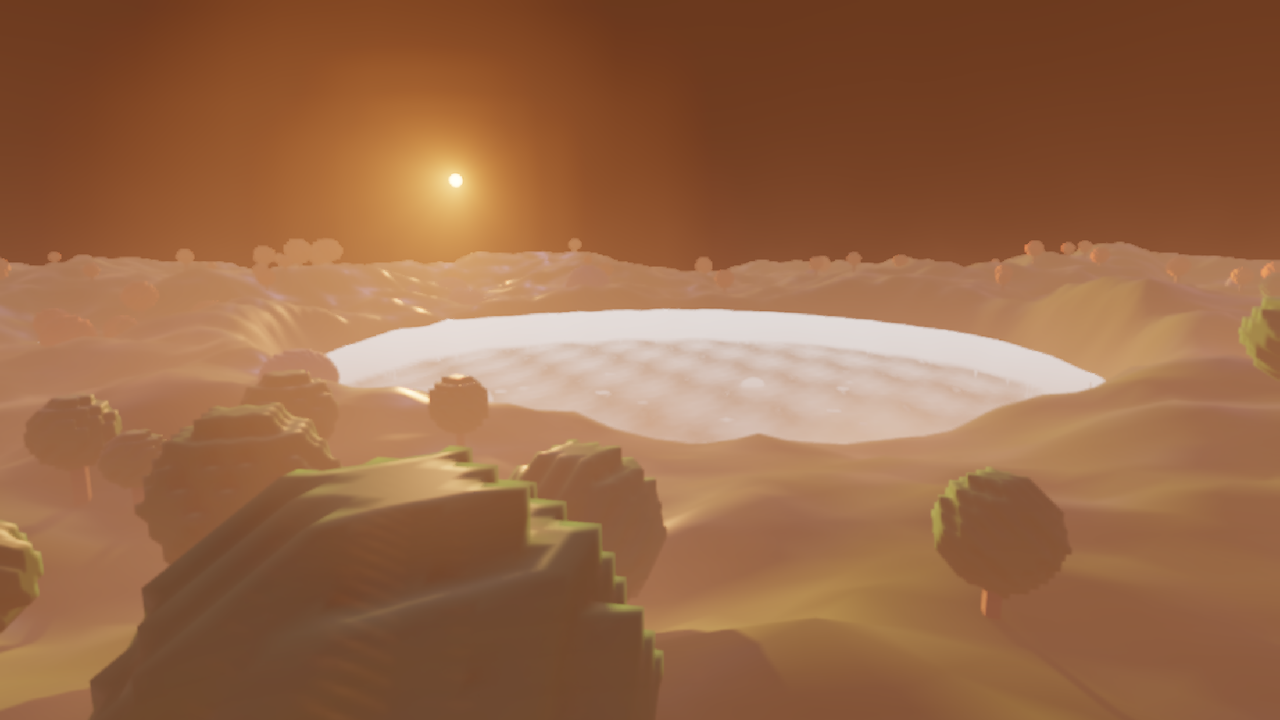
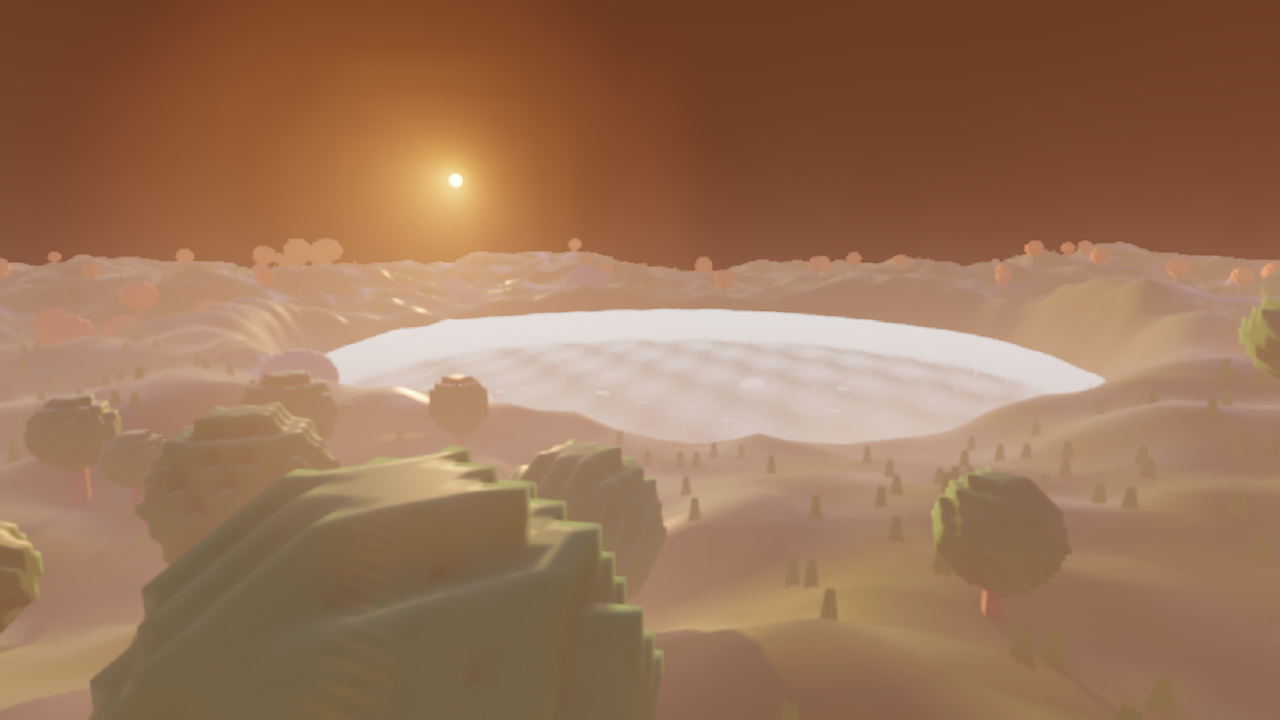
Sunrise scene: add instanced grass (6000 crossed-quad blades in one draw call, snapped to the terrain via new Instancing::heightFn; instanced-node AABB in Node::computeAabb so grass is not frustum-culled) and brighten the sunrise sky (brighter cubemap palette + skyTop/Bottom, exposure 1.3, IBL 0.7);

diff --git a/examples/sunrise_screenshot/main.cpp b/examples/sunrise_screenshot/main.cpp
@@ -79,10 +79,10 @@ fuhgl::Texture makeSunriseSky(int size, unsigned seed, const fuhgl::math::Vec3& 
         fuhgl::Texture::CubeFace::PosX, fuhgl::Texture::CubeFace::NegX, fuhgl::Texture::CubeFace::PosY,
         fuhgl::Texture::CubeFace::NegY, fuhgl::Texture::CubeFace::PosZ, fuhgl::Texture::CubeFace::NegZ,
     };
-    const fuhgl::math::Vec3 zenith{0.045f, 0.085f, 0.27f};
-    const fuhgl::math::Vec3 horizonAway{0.42f, 0.22f, 0.36f}; // violet-pink away from the sun
-    const fuhgl::math::Vec3 horizonSun{1.0f, 0.40f, 0.10f};   // hot orange at the sun
-    const fuhgl::math::Vec3 ground{0.07f, 0.045f, 0.075f};
+    const fuhgl::math::Vec3 zenith{0.10f, 0.18f, 0.45f};
+    const fuhgl::math::Vec3 horizonAway{0.62f, 0.38f, 0.55f}; // violet-pink away from the sun
+    const fuhgl::math::Vec3 horizonSun{1.0f, 0.55f, 0.22f};   // hot orange at the sun
+    const fuhgl::math::Vec3 ground{0.15f, 0.10f, 0.14f};
     std::vector<unsigned char> px(static_cast<std::size_t>(size) * size * 4);
     for (int face = 0; face < 6; ++face) {
         for (int j = 0; j < size; ++j) {
@@ -96,10 +96,10 @@ fuhgl::Texture makeSunriseSky(int size, unsigned seed, const fuhgl::math::Vec3& 
                 // cirrus streaks, pinker near the sun
                 const float n = fuhgl::math::fbm3(dir.x * 4.f + 3.1f, dir.y * 9.f, dir.z * 4.f, 4, seed);
                 const float cl = smoothstep01(0.52f, 0.78f, n) * smoothstep01(-0.02f, 0.22f, dir.y);
-                col += fuhgl::math::Vec3{1.0f, 0.45f, 0.32f} * (cl * (0.35f + 0.65f * sunAmt));
+                col += fuhgl::math::Vec3{1.0f, 0.55f, 0.40f} * (cl * (0.5f + 0.5f * sunAmt));
                 // sun glow
-                col += fuhgl::math::Vec3{1.0f, 0.55f, 0.22f} * std::pow(std::max(fuhgl::math::dot(dir, sunDir), 0.f), 300.f) * 8.f;
-                col += fuhgl::math::Vec3{1.0f, 0.5f, 0.25f} * std::pow(std::max(fuhgl::math::dot(dir, sunDir), 0.f), 24.f) * 0.7f;
+                col += fuhgl::math::Vec3{1.0f, 0.55f, 0.22f} * std::pow(std::max(fuhgl::math::dot(dir, sunDir), 0.f), 300.f) * 10.f;
+                col += fuhgl::math::Vec3{1.0f, 0.5f, 0.25f} * std::pow(std::max(fuhgl::math::dot(dir, sunDir), 0.f), 24.f) * 1.0f;
                 unsigned char* p = px.data() + (static_cast<std::size_t>(j) * size + i) * 4;
                 p[0] = static_cast<unsigned char>(std::min(255.f, col.x * 255.f));
                 p[1] = static_cast<unsigned char>(std::min(255.f, col.y * 255.f));
@@ -140,6 +140,28 @@ void aimAt(fuhgl::FirstPersonCamera& cam, const fuhgl::math::Vec3& target) {
     const fuhgl::math::Vec3 d = fuhgl::math::normalize(target - cam.position);
     cam.yaw = std::atan2(d.x, -d.z);
     cam.pitch = std::asin(d.y);
+}
+
+// Crossed-quad grass blade, base at y=0, tapered top. Both windings per plane so
+// backface culling never hides a blade (16 verts / 24 indices).
+fuhgl::render::MeshData makeGrassBlade(const fuhgl::math::Vec3& color) {
+    fuhgl::render::MeshData d;
+    const float w = 0.30f, wt = 0.14f, h = 0.85f;
+    for (int p = 0; p < 2; ++p) { // two crossed vertical planes: XY and ZY
+        const float ax = p == 0 ? 1.f : 0.f, az = p == 0 ? 0.f : 1.f;
+        const float nx = -az, nz = ax; // in-plane normal
+        const unsigned base = static_cast<unsigned>(d.vertexCount());
+        const float verts[4 * fuhgl::render::MeshData::kFloatsPerVertex] = {
+            -w * ax, 0.f, -w * az, nx, 0.f, nz, color.x, color.y, color.z, 0.f, 0.f,
+             w * ax, 0.f,  w * az, nx, 0.f, nz, color.x, color.y, color.z, 1.f, 0.f,
+             wt * ax, h,   wt * az, nx, 0.f, nz, color.x, color.y, color.z, 1.f, 1.f,
+            -wt * ax, h,  -wt * az, nx, 0.f, nz, color.x, color.y, color.z, 0.f, 1.f,
+        };
+        d.vertices.insert(d.vertices.end(), verts, verts + 4 * fuhgl::render::MeshData::kFloatsPerVertex);
+        d.indices.insert(d.indices.end(), {base, base + 1, base + 2, base, base + 2, base + 3});
+        d.indices.insert(d.indices.end(), {base, base + 2, base + 1, base, base + 3, base + 2}); // flipped
+    }
+    return d;
 }
 
 } // namespace
@@ -326,6 +348,29 @@ int main(int argc, char** argv) {
     std::fprintf(stderr, "sunrise_screenshot: %d trees, %d rocks, %d reeds, %d pads\n", trees, rocksN,
                  reeds, pads);
 
+    // --- grass via instancing (G9 F24): 6000 blades in ONE draw call, snapped to the
+    // terrain height via Instancing::heightFn (hidden in the lake / at the shore) ---
+    fuhgl::render::Mesh grass;
+    if (!grass.create()) return 1;
+    grass.setMeshData(makeGrassBlade({1.f, 1.f, 1.f}));
+    scene::Node& grassNode = scene.root().createChild("grass");
+    grassNode.instancing.enabled = true;
+    grassNode.instancing.count = 6000;
+    grassNode.instancing.layout = scene::InstanceLayout::Random;
+    grassNode.instancing.extent = {300.f, 1.f, 300.f};
+    grassNode.instancing.seed = 99u;
+    grassNode.instancing.heightFn = [&](float x, float z) {
+        const float h = tc.heightAt(x, z);
+        if (h < waterLevel + 0.35f || std::hypot(x - basin.x, z - basin.y) < basinR + 3.f)
+            return -100.f; // no grass in the lake / right at the shore
+        return h - 0.05f;
+    };
+    scene::MeshEntry& gr = grassNode.attach<scene::MeshComponent>().addMesh(&grass);
+    gr.albedo = {0.16f, 0.40f, 0.11f};
+    gr.roughness = 1.f;
+    gr.castShadow = false;
+    gr.materialId = 1024;
+
     // --- dock into the lake + waving flag (G6) ---
     // dockDir points from the shore (-16,-2) toward the basin center; the dock starts at
     // the shore-side rim and extends INTO the lake (along dockDir)
@@ -463,7 +508,7 @@ int main(int argc, char** argv) {
     fuhgl::render::Environment env;
     if (skyCube.id() != 0 && !env.createFromCubemap(skyCube, 16, 32, 64))
         std::fprintf(stderr, "sunrise_screenshot: IBL bake failed, continuing without env\n");
-    env.intensity = 0.5f;
+    env.intensity = 0.7f;
 
     // --- root effects: everything visual at once ---
     scene::Effects& fx = scene.root().effects;
@@ -481,7 +526,7 @@ int main(int argc, char** argv) {
     fx.enable(render::Effect::Particles);
     fx.enable(render::Effect::Decals);
     scene::EffectParams& prm = fx.params;
-    prm.exposure = 1.15f;
+    prm.exposure = 1.3f;
     prm.taaBlend = 0.08f;
     prm.shadowCenter = {0.f, 8.f, -20.f};
     prm.shadowRadius = 150.f;
@@ -512,8 +557,8 @@ int main(int argc, char** argv) {
     render::DeferredRenderer renderer;
     if (!renderer.create(args.width, args.height, 0)) return 1;
     if (skyCube.id() != 0) renderer.setSkyCubemap(&skyCube);
-    renderer.skyTop = {0.05f, 0.09f, 0.27f};
-    renderer.skyBottom = {1.0f, 0.45f, 0.15f};
+    renderer.skyTop = {0.10f, 0.18f, 0.45f};
+    renderer.skyBottom = {1.0f, 0.60f, 0.30f};
     renderer.enableCsmShadows(1024, 4);
     renderer.setWaterReflectionScale(0.5f);
     renderer.godRays.enabled = true;

diff --git a/src/scene/node.cpp b/src/scene/node.cpp
@@ -21,15 +21,19 @@ std::vector<fuhgl::math::Mat4> Instancing::makeLocalInstances() const {
                                      : 0.f;
             const float z = rows > 1 ? -extent.z * 0.5f + static_cast<float>(iz) * extent.z / static_cast<float>(rows - 1)
                                      : 0.f;
-            out.push_back(fuhgl::math::translate({x, 0.f, z}));
+            const float y = heightFn ? heightFn(x, z) : 0.f;
+            out.push_back(fuhgl::math::translate({x, y, z}));
         }
     } else {
         std::mt19937 rng(seed);
         std::uniform_real_distribution<float> dx(-extent.x * 0.5f, extent.x * 0.5f);
         std::uniform_real_distribution<float> dy(-extent.y * 0.5f, extent.y * 0.5f);
         std::uniform_real_distribution<float> dz(-extent.z * 0.5f, extent.z * 0.5f);
-        for (int i = 0; i < n; ++i)
-            out.push_back(fuhgl::math::translate({dx(rng), dy(rng), dz(rng)}));
+        for (int i = 0; i < n; ++i) {
+            const float x = dx(rng), z = dz(rng);
+            const float y = heightFn ? heightFn(x, z) : dy(rng);
+            out.push_back(fuhgl::math::translate({x, y, z}));
+        }
     }
     return out;
 }
@@ -114,6 +118,19 @@ void Node::computeAabb() {
             fuhgl::math::transformSphere(worldMatrix_, wc->surface.mesh().boundingSphere());
         unionPoint({s.x - s.w, s.y - s.w - margin, s.z - s.w});
         unionPoint({s.x + s.w, s.y + s.w + margin, s.z + s.w});
+    }
+    // instanced nodes: the instance area (extent) matters for culling, not the single
+    // mesh bounding sphere; with heightFn the ground height is sampled at the corners
+    if (instancing.enabled && instancing.count > 0) {
+        const fuhgl::math::Vec3& e = instancing.extent;
+        for (int i = 0; i < 8; ++i) {
+            const float cx = (i & 1) ? e.x * 0.5f : -e.x * 0.5f;
+            const float cz = (i & 2) ? e.z * 0.5f : -e.z * 0.5f;
+            const float cy = instancing.heightFn ? instancing.heightFn(cx, cz)
+                                                  : ((i & 4) ? e.y * 0.5f : -e.y * 0.5f);
+            const fuhgl::math::Vec4 w = worldMatrix_ * fuhgl::math::Vec4{cx, cy, cz, 1.f};
+            unionPoint({w.x, w.y, w.z});
+        }
     }
     // G20: a terrain contributes the world AABB of its LOD level-0 bounding sphere
     for (const auto& comp : components_) {

diff --git a/tests/test_scene.cpp b/tests/test_scene.cpp
@@ -130,6 +130,30 @@ void runSceneTests() {
         Instancing off;
         off.count = 0;
         CHECK(off.makeLocalInstances().empty());
+
+        // G20/sunrise: heightFn snaps instances onto the ground (grass on a heightmap)
+        Instancing h;
+        h.layout = InstanceLayout::Random;
+        h.count = 32;
+        h.extent = {10.f, 1.f, 10.f};
+        h.seed = 7;
+        h.heightFn = [](float x, float z) { return 2.f * x + z; };
+        const std::vector<fuhgl::math::Mat4> hm = h.makeLocalInstances();
+        CHECK(hm.size() == 32);
+        for (const auto& mat : hm) {
+            const fuhgl::math::Vec4 p = mat * fuhgl::math::Vec4{0.f, 0.f, 0.f, 1.f};
+            CHECK_NEAR(p.y, 2.f * p.x + p.z, 1e-5f); // y follows the height callback
+        }
+        // without heightFn the behavior is unchanged (random y in the box)
+        h.heightFn = nullptr;
+        const std::vector<fuhgl::math::Mat4> hm2 = h.makeLocalInstances();
+        CHECK(hm2.size() == 32);
+        bool anyY = false;
+        for (const auto& mat : hm2) {
+            const fuhgl::math::Vec4 p = mat * fuhgl::math::Vec4{0.f, 0.f, 0.f, 1.f};
+            if (std::fabs(p.y) > 1e-4f) anyY = true;
+        }
+        CHECK(anyY);
     }
 
     // --- components: attach / find / findAll / detach ---

diff --git a/include/fuhglgraphics/scene/node.hpp b/include/fuhglgraphics/scene/node.hpp
@@ -10,6 +10,7 @@
 
 #include <fuhgl/math.hpp>
 
+#include <functional>
 #include <memory>
 #include <string>
 #include <vector>
@@ -30,6 +31,11 @@ struct Instancing {
     InstanceLayout layout = InstanceLayout::Grid;
     fuhgl::math::Vec3 extent{10.f, 10.f, 10.f}; ///< grid area / random box, centered at the node origin
     unsigned seed = 1;                          ///< random layout seed (deterministic)
+    /// @brief Optional ground-height callback (local xz -> local y): when set,
+    /// makeLocalInstances() snaps every instance onto the ground (e.g. grass on a
+    /// heightmap terrain). Return a very low y to hide an instance. Runtime-only —
+    /// not serialized (callbacks are not JSON-representable).
+    std::function<float(float, float)> heightFn = nullptr;
 
     /// @brief The `count` local-space instance offset matrices (deterministic for Grid
     /// and for Random with a fixed seed). Pure — unit-testable without GL.
